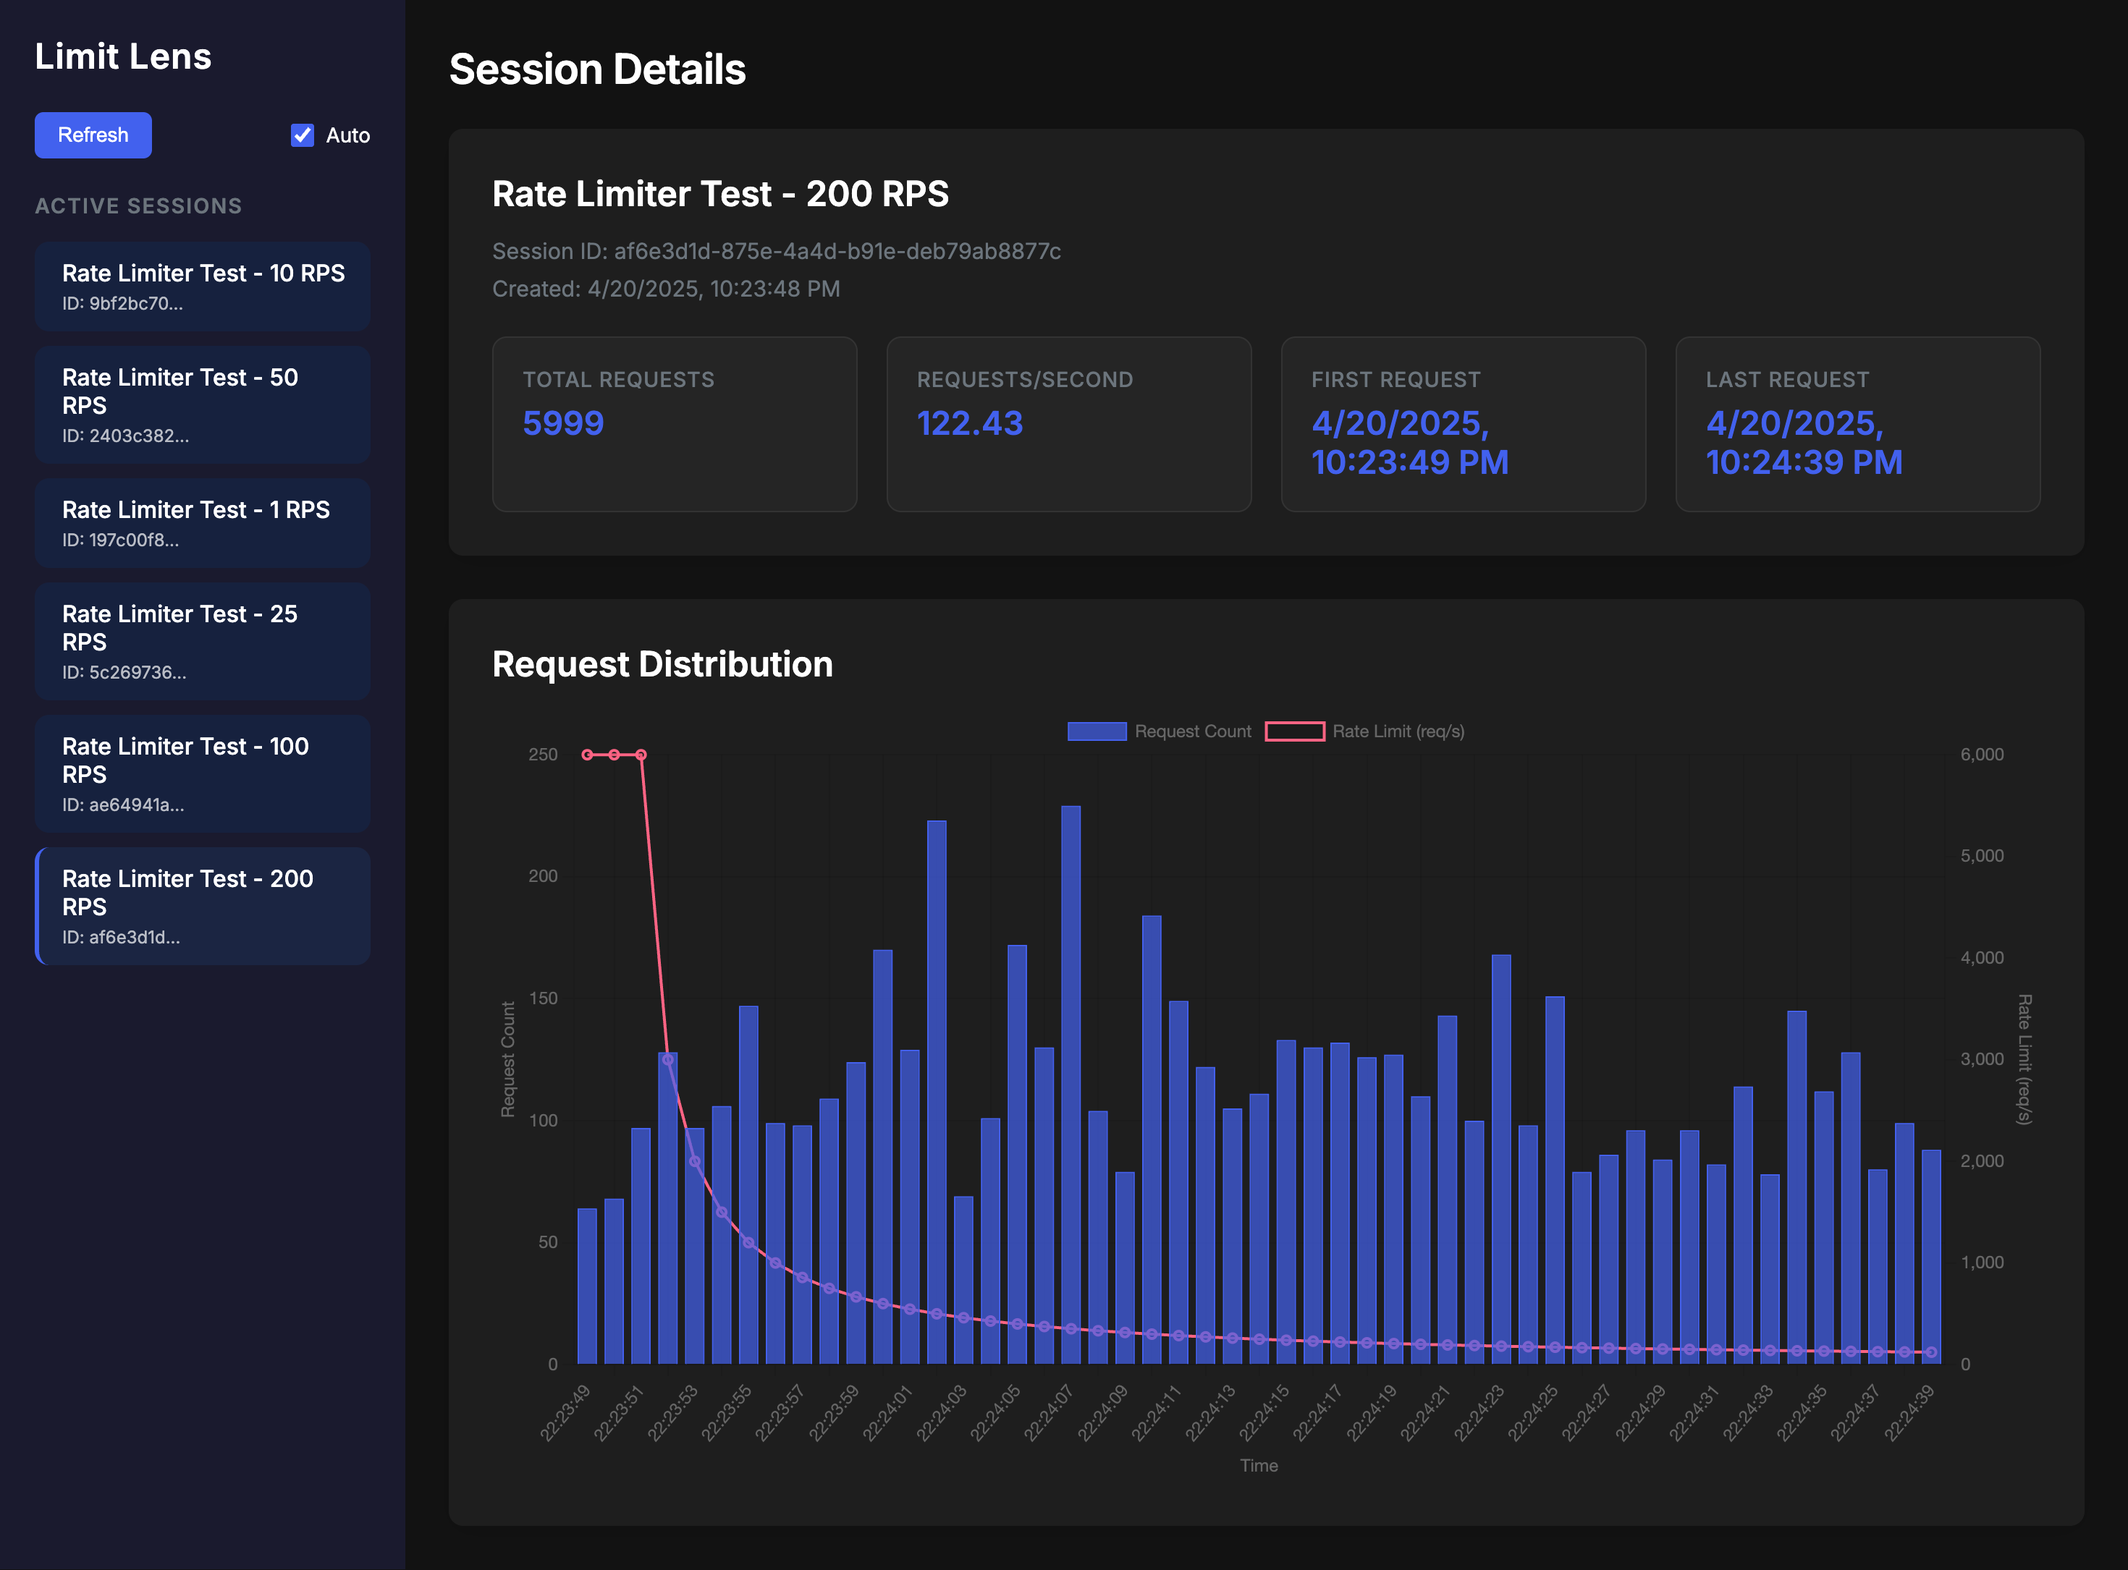
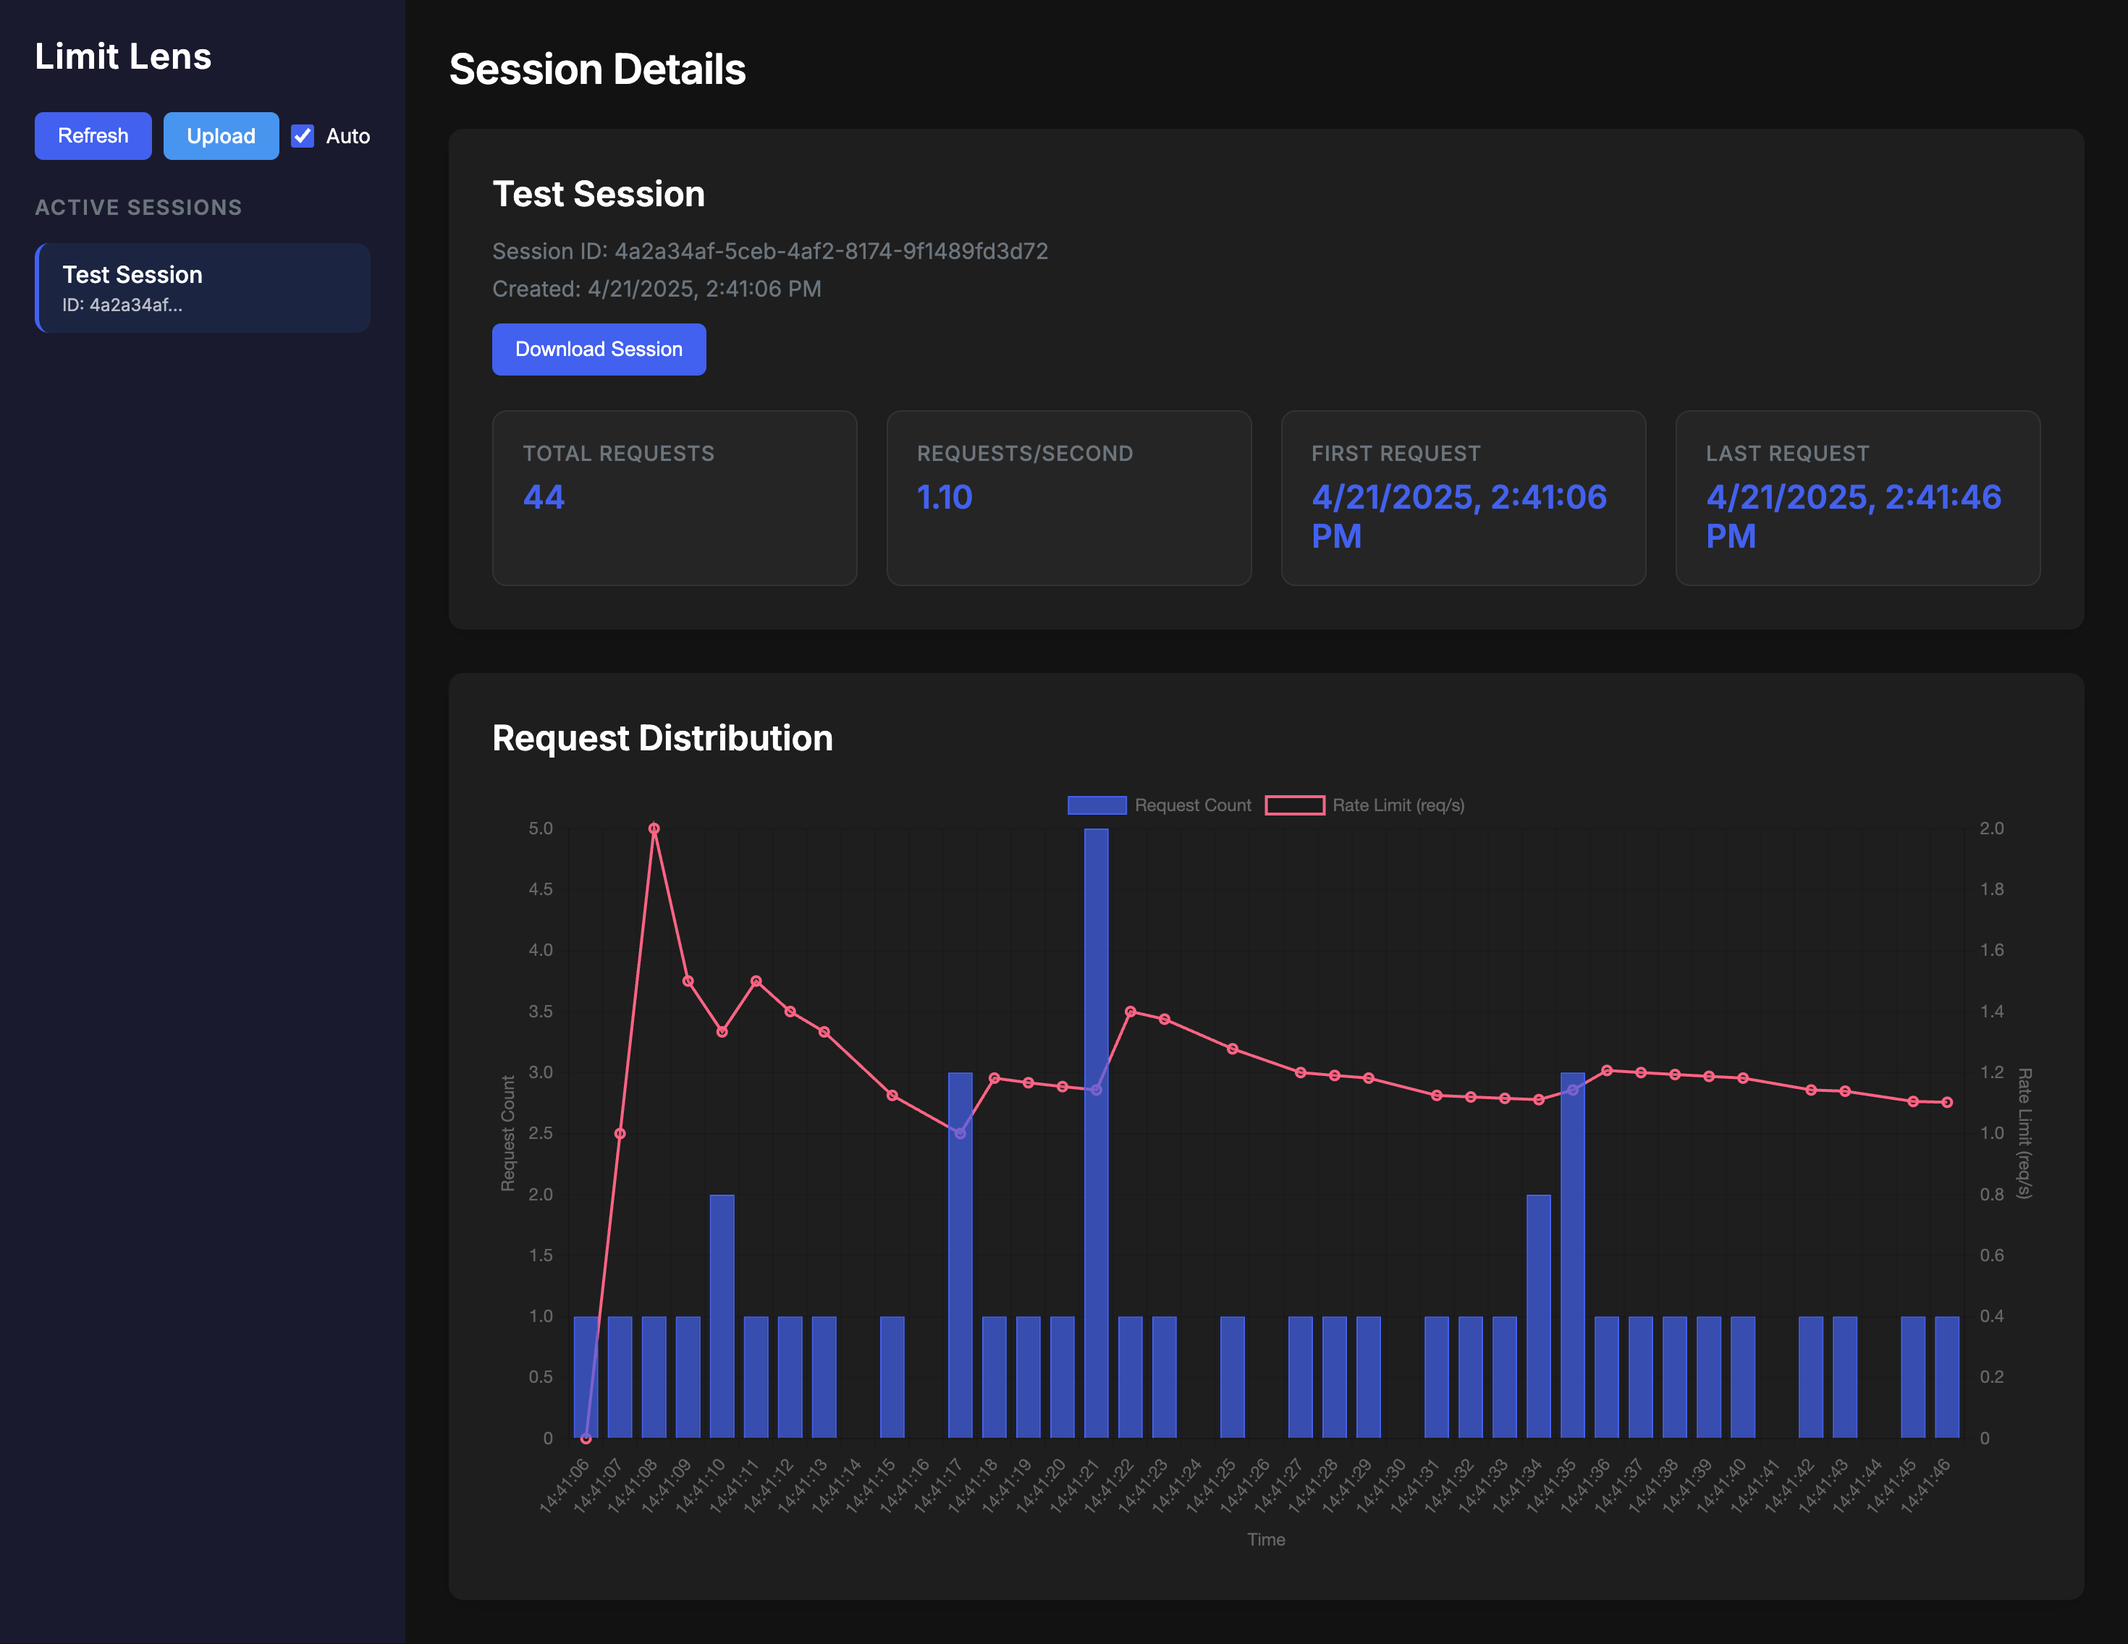
feat: upload and download sessions

diff --git a/static/dashboard.html b/static/dashboard.html
@@ -218,6 +218,29 @@
             display: none;
         }
 
+        .action-button {
+            background-color: var(--primary-color);
+            color: white;
+            border: none;
+            padding: 10px 16px;
+            border-radius: 6px;
+            cursor: pointer;
+            font-size: 14px;
+            font-weight: 500;
+            transition: var(--transition);
+            display: inline-block;
+            text-align: center;
+        }
+
+        .action-button:hover {
+            background-color: var(--primary-dark);
+            transform: translateY(-2px);
+        }
+
+        .upload-btn {
+            background-color: var(--primary-light);
+        }
+
         /* Dark mode styles */
         @media (prefers-color-scheme: dark) {
             body {
@@ -259,7 +282,14 @@
     <div class="sidebar">
         <h2>Limit Lens</h2>
         <div class="sidebar-actions">
-            <button id="refresh-button" class="refresh-button">Refresh</button>
+            <div style="display: flex; gap: 8px;">
+                <button id="refresh-button" class="refresh-button">Refresh</button>
+                <label class="refresh-button upload-btn">
+                    Upload
+                    <input type="file" id="upload-input" accept=".json" style="display: none;"
+                        onchange="uploadSession(event)">
+                </label>
+            </div>
             <div class="auto-refresh">
                 <input type="checkbox" id="auto-refresh" checked>
                 <label for="auto-refresh">Auto</label>
@@ -298,17 +328,46 @@
         // Fetch all active sessions
         async function fetchSessions() {
             try {
+                // Get sessions from server
                 const response = await fetch('/api/test/sessions');
                 if (!response.ok) throw new Error('Failed to fetch sessions');
-                return await response.json();
+                const serverSessions = await response.json();
+
+                // Get locally stored sessions from localStorage
+                const localSessions = getLocalSessions();
+
+                // Merge server sessions with local sessions
+                return [...serverSessions, ...localSessions];
             } catch (error) {
                 console.error('Error fetching sessions:', error);
+
+                // If server request fails, return at least local sessions
+                return getLocalSessions();
+            }
+        }
+
+        // Get local sessions from localStorage
+        function getLocalSessions() {
+            try {
+                const localSessionsJson = localStorage.getItem('importedSessions');
+                return localSessionsJson ? JSON.parse(localSessionsJson) : [];
+            } catch (error) {
+                console.error('Error reading local sessions:', error);
                 return [];
             }
         }
 
         // Fetch metrics for a specific session
         async function fetchMetrics(sessionId) {
+            // First check if it's a local session
+            const localSessions = getLocalSessions();
+            const localSession = localSessions.find(s => s.id === sessionId);
+
+            if (localSession && localSession.metrics) {
+                return localSession.metrics;
+            }
+
+            // If not local, get from server
             try {
                 const response = await fetch(`/api/test/metrics/${sessionId}`);
                 if (!response.ok) throw new Error(`Failed to fetch metrics for session ${sessionId}`);
@@ -331,12 +390,28 @@
             let listHTML = '';
             sessions.forEach(session => {
                 const isActive = session.id === activeSessionId;
+                const isLocal = session.isLocal;
+
                 listHTML += `
                     <div class="session-item ${isActive ? 'active' : ''}" 
                          data-session-id="${session.id}" 
-                         onclick="selectSession('${session.id}')">
-                        <div style="font-weight: 500;">${session.name || 'Unnamed Session'}</div>
-                        <div style="font-size: 12px; opacity: 0.7; margin-top: 4px;">ID: ${session.id.substring(0, 8)}...</div>
+                         onclick="selectSession('${session.id}', event)">
+                        <div style="display: flex; justify-content: space-between; align-items: center;">
+                            <div>
+                                <div style="font-weight: 500;">${session.name || 'Unnamed Session'}</div>
+                                <div style="font-size: 12px; opacity: 0.7; margin-top: 4px;">
+                                    ID: ${session.id.substring(0, 8)}...
+                                    ${isLocal ? '<span style="color: var(--primary-light); margin-left: 5px;">(Imported)</span>' : ''}
+                                </div>
+                            </div>
+                            ${isLocal ? `
+                                <button class="remove-session-btn" 
+                                        onclick="removeSession('${session.id}', event)"
+                                        style="background: transparent; border: none; color: #ff4757; cursor: pointer; font-size: 18px; padding: 5px;">
+                                    ×
+                                </button>
+                            ` : ''}
+                        </div>
                     </div>
                 `;
             });
@@ -355,6 +430,11 @@
                     <h2>${session.name || 'Unnamed Session'}</h2>
                     <p>Session ID: ${session.id}</p>
                     <p>Created: ${new Date(session.created_at).toLocaleString()}</p>
+                    <div class="action-buttons" style="margin-top: 15px;">
+                        <button class="action-button download-btn" onclick="downloadSession('${session.id}')">
+                            Download Session
+                        </button>
+                    </div>
             `;
 
             // Add metrics if available
@@ -484,8 +564,13 @@
             }
         }
 
-        // Handle session selection
-        function selectSession(sessionId) {
+        // Handle session selection - updated to prevent removal button clicks from triggering selection
+        function selectSession(sessionId, event) {
+            // If click was on the remove button, don't select the session
+            if (event && event.target.classList.contains('remove-session-btn')) {
+                return;
+            }
+
             activeSessionId = sessionId;
             refreshSessionDetails();
 
@@ -513,6 +598,15 @@
                 activeSessionId = null;
                 document.getElementById('session-details').innerHTML =
                     '<div class="no-sessions">Select a session from the sidebar</div>';
+
+                // Hide the chart container
+                document.getElementById('distribution-chart-container').style.display = 'none';
+
+                // Reset the chart if it exists
+                if (distributionChart) {
+                    distributionChart.destroy();
+                    distributionChart = null;
+                }
             }
         }
 
@@ -571,6 +665,140 @@
 
         // Initialize when the page loads
         window.onload = initDashboard;
+
+        // Download session data as JSON
+        async function downloadSession(sessionId) {
+            try {
+                const metrics = await fetchMetrics(sessionId);
+                if (!metrics) throw new Error('No metrics available');
+
+                // Get session details
+                const sessions = await fetchSessions();
+                const session = sessions.find(s => s.id === sessionId);
+                if (!session) throw new Error('Session not found');
+
+                // Combine session info and metrics
+                const exportData = {
+                    session: session,
+                    metrics: metrics
+                };
+
+                // Create download file
+                const dataStr = JSON.stringify(exportData, null, 2);
+                const dataBlob = new Blob([dataStr], { type: 'application/json' });
+                const url = URL.createObjectURL(dataBlob);
+
+                // Create download link and trigger it
+                const a = document.createElement('a');
+                a.href = url;
+                a.download = `session-${session.id.substring(0, 8)}.json`;
+                document.body.appendChild(a);
+                a.click();
+                document.body.removeChild(a);
+                URL.revokeObjectURL(url);
+            } catch (error) {
+                console.error('Error downloading session:', error);
+                alert('Failed to download session data');
+            }
+        }
+
+        // Upload session data from JSON file
+        async function uploadSession(event) {
+            const file = event.target.files[0];
+            if (!file) return;
+
+            try {
+                const fileContent = await readFileAsText(file);
+                const data = JSON.parse(fileContent);
+
+                if (!data.session || !data.metrics) {
+                    throw new Error('Invalid session data format');
+                }
+
+                console.log("Importing session locally:", data.session.id);
+
+                // Mark as a local import
+                const localSession = {
+                    ...data.session,
+                    isLocal: true,
+                    metrics: data.metrics  // Store metrics with the session object
+                };
+
+                // Save to localStorage
+                const existingSessions = getLocalSessions();
+
+                // Check if session already exists (by ID)
+                const sessionIndex = existingSessions.findIndex(s => s.id === localSession.id);
+
+                if (sessionIndex >= 0) {
+                    // Update existing session
+                    existingSessions[sessionIndex] = localSession;
+                } else {
+                    // Add new session
+                    existingSessions.push(localSession);
+                }
+
+                // Save back to localStorage
+                localStorage.setItem('importedSessions', JSON.stringify(existingSessions));
+
+                // Refresh dashboard to show the new session
+                await updateDashboard();
+            } catch (error) {
+                console.error('Error uploading session:', error);
+                alert(`Failed to import session: ${error.message}`);
+            }
+
+            // Reset file input
+            event.target.value = '';
+        }
+
+        // Helper function to read file
+        function readFileAsText(file) {
+            return new Promise((resolve, reject) => {
+                const reader = new FileReader();
+                reader.onload = e => resolve(e.target.result);
+                reader.onerror = e => reject(e);
+                reader.readAsText(file);
+            });
+        }
+
+        // Remove local session
+        function removeSession(sessionId, event) {
+            // Stop event propagation to prevent session selection
+            event.stopPropagation();
+
+            try {
+                // Get current sessions from localStorage
+                const localSessions = getLocalSessions();
+
+                // Filter out the session to remove
+                const updatedSessions = localSessions.filter(s => s.id !== sessionId);
+
+                // Save back to localStorage
+                localStorage.setItem('importedSessions', JSON.stringify(updatedSessions));
+
+                // If the removed session was active, reset active session
+                if (sessionId === activeSessionId) {
+                    activeSessionId = null;
+                    document.getElementById('session-details').innerHTML =
+                        '<div class="no-sessions">Select a session from the sidebar</div>';
+
+                    // Immediately hide chart container and destroy chart
+                    document.getElementById('distribution-chart-container').style.display = 'none';
+                    if (distributionChart) {
+                        distributionChart.destroy();
+                        distributionChart = null;
+                    }
+                }
+
+                // Refresh the dashboard
+                updateDashboard();
+
+            } catch (error) {
+                console.error('Error removing session:', error);
+                alert('Failed to remove session');
+            }
+        }
     </script>
 </body>
 

diff --git a/src/storage.rs b/src/storage.rs
@@ -119,11 +119,18 @@ impl RateTestStorage {
         let mut distribution_vec: Vec<TimeBucket> = distribution
             .into_iter()
             .map(|(timestamp, count)| {
-                // Calculate per-bucket rate limit
+                // Calculate per-bucket rate limit based on cumulative requests
                 let bucket_rate_limit = if let Some(first) = first_time {
                     let duration = timestamp.signed_duration_since(first);
                     let seconds = duration.num_seconds().max(1) as f64;
-                    session_requests.len() as f64 / seconds
+                    
+                    // Count requests up to this bucket's timestamp
+                    let requests_till_now = session_requests
+                        .iter()
+                        .filter(|r| r.timestamp <= timestamp)
+                        .count() as f64;
+                        
+                    requests_till_now / seconds
                 } else {
                     0.0
                 };
